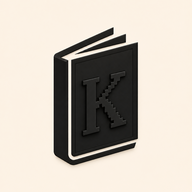
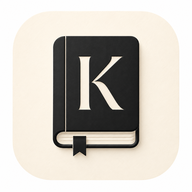
Add files via upload

diff --git a/index.html b/index.html
@@ -3,15 +3,15 @@
 <head>
   <meta charset="UTF-8" />
   <meta name="viewport" content="width=device-width, initial-scale=1.0, viewport-fit=cover" />
-  <meta name="theme-color" content="#fbfaf6" />
-  <link rel="manifest" href="./manifest.json?v=42" />
+  <meta name="theme-color" content="#F6F1E8" />
+  <link rel="manifest" href="./manifest.json?v=43" />
   <link rel="apple-touch-icon" href="./icons/icon-192.png" />
-  <title>Мои книги 4.2</title>
+  <title>Мои книги 4.3</title>
 
   <style>
     @font-face {
       font-family: 'uvKits';
-      src: url('./fonts/uvkits.ttf?v=42') format('truetype');
+      src: url('./fonts/uvkits.ttf?v=43') format('truetype');
       font-weight: 300 900;
       font-style: normal;
       font-display: swap;
@@ -19,7 +19,7 @@
 
     @font-face {
       font-family: 'KONSTRUKT';
-      src: url('./fonts/KONSTRUKT-Regular.otf?v=42') format('opentype');
+      src: url('./fonts/KONSTRUKT-Regular.otf?v=43') format('opentype');
       font-weight: 400;
       font-style: normal;
       font-display: swap;
@@ -1324,6 +1324,120 @@
       border-radius: 11px;
     }
 
+
+    /* v4.3 brand assets refinement */
+    .brand-mark {
+      width: 34px;
+      height: 44px;
+      background: transparent !important;
+      border-radius: 0 !important;
+      box-shadow: none !important;
+      overflow: visible;
+    }
+
+    .brand-mark::before,
+    .brand-mark::after {
+      display: none !important;
+      content: none !important;
+    }
+
+    .brand-mark img {
+      width: 100%;
+      height: 100%;
+      display: block;
+      object-fit: contain;
+    }
+
+    .cover.placeholder {
+      display: flex;
+      align-items: center;
+      justify-content: center;
+      background: linear-gradient(180deg, #FCF8F0 0%, #F2E9DA 100%);
+      border: 1px solid rgba(205, 186, 154, .6);
+      color: transparent;
+      font-size: 0;
+    }
+
+    .cover.placeholder img {
+      width: 62%;
+      height: 62%;
+      object-fit: contain;
+      display: block;
+    }
+
+    .app-splash {
+      position: fixed;
+      inset: 0;
+      z-index: 1200;
+      display: flex;
+      align-items: center;
+      justify-content: center;
+      background: radial-gradient(circle at 50% 20%, rgba(205,186,154,.18), transparent 35%), #F6F1E8;
+      transition: opacity .35s ease, visibility .35s ease;
+    }
+
+    .app-splash-inner {
+      width: min(320px, calc(100vw - 48px));
+      display: flex;
+      flex-direction: column;
+      align-items: center;
+      gap: 10px;
+      text-align: center;
+    }
+
+    .app-splash-logo {
+      width: 118px;
+      height: 148px;
+      object-fit: contain;
+      filter: drop-shadow(0 10px 20px rgba(23,23,23,.10));
+    }
+
+    .app-splash-title {
+      font-family: Georgia, "Times New Roman", serif;
+      font-size: 34px;
+      line-height: 1;
+      color: #171717;
+      letter-spacing: .01em;
+      margin-top: 4px;
+    }
+
+    .app-splash-sub {
+      font-family: var(--font-main);
+      font-size: 11px;
+      letter-spacing: .22em;
+      text-transform: uppercase;
+      color: #A99677;
+    }
+
+    .app-splash-line {
+      width: 148px;
+      height: 2px;
+      background: rgba(205,186,154,.55);
+      border-radius: 999px;
+      overflow: hidden;
+      margin-top: 12px;
+    }
+
+    .app-splash-line span {
+      display: block;
+      width: 42%;
+      height: 100%;
+      background: #171717;
+      border-radius: 999px;
+      animation: splashMove 1.25s ease-in-out infinite alternate;
+    }
+
+    @keyframes splashMove {
+      from { transform: translateX(0); }
+      to { transform: translateX(205%); }
+    }
+
+    body.app-loaded .app-splash {
+      opacity: 0;
+      visibility: hidden;
+      pointer-events: none;
+    }
+
     @media (max-width: 420px) {
       body {
         padding: 12px;
@@ -1358,17 +1472,25 @@
   </style>
 </head>
 
-<body>
+<body class="app-loading">
+  <div id="appSplash" class="app-splash" aria-hidden="true">
+    <div class="app-splash-inner">
+      <img src="./icons/logo-main.svg?v=43" alt="Мои книги" class="app-splash-logo" />
+      <div class="app-splash-title">Мои книги</div>
+      <div class="app-splash-sub">личная библиотека всегда с вами</div>
+      <div class="app-splash-line"><span></span></div>
+    </div>
+  </div>
   <main class="app">
     <header class="app-header">
       <div class="brand">
-        <div class="brand-mark"><span>К</span></div>
+        <div class="brand-mark"><img src="./icons/logo-app.svg?v=43" alt="Мои книги" /></div>
         <div>
           <p class="brand-title">Мои книги</p>
-          <p class="brand-subtitle">EPUB-читалка · 4.2</p>
+          <p class="brand-subtitle">EPUB-читалка · 4.3</p>
         </div>
       </div>
-      <span class="version-pill">v4.2</span>
+      <span class="version-pill">v4.3</span>
       <input class="hidden-input" id="epubInput" type="file" accept=".epub,application/epub+zip" />
     </header>
 
@@ -1455,7 +1577,7 @@
       <section class="settings-card">
         <div class="settings-item">
           <strong>Версия приложения</strong>
-          <span id="settingsVersion">4.2</span>
+          <span id="settingsVersion">4.3</span>
         </div>
 
         <div class="settings-item">
@@ -1476,7 +1598,7 @@
 
         <div class="settings-item">
           <strong>Service Worker</strong>
-          <span>my-books-epub-reader-v42</span>
+          <span>my-books-epub-reader-v43</span>
         </div>
 
         <div class="settings-item">
@@ -1492,7 +1614,7 @@
 
         <div class="settings-item">
           <strong>Подсказка для теста</strong>
-          <span>Если после обновления видишь старую версию: удалить PWA, очистить данные сайта и открыть index.html?v=42.</span>
+          <span>Если после обновления видишь старую версию: удалить PWA, очистить данные сайта и открыть index.html?v=43.</span>
         </div>
 
         <button class="danger-btn" id="clearDataBtn">Очистить локальные данные</button>
@@ -1510,13 +1632,13 @@
   <div class="toast" id="toast">Сохранено</div>
 
   <script>
-    const APP_VERSION = '4.2';
-    const BUILD_DATE = '2026-05-19 07:54 UTC';
+    const APP_VERSION = '4.3';
+    const BUILD_DATE = '2026-05-19 UTC';
     const DB_NAME = 'my-books-epub-reader-db-v40';
     const DB_VERSION = 1;
     const BOOKS_STORE = 'books';
     const UI_STORAGE_KEY = 'my-books-epub-ui-v40';
-    const SW_CACHE_NAME = 'my-books-epub-reader-v42';
+    const SW_CACHE_NAME = 'my-books-epub-reader-v43';
 
     const JSZIP_SOURCES = [
       './libs/jszip.min.js',
@@ -1575,9 +1697,11 @@
       try {
         await loadZipLibrary();
         await init();
+        hideSplash();
       } catch (error) {
         console.error(error);
         showToast('EPUB-модуль не загрузился');
+        hideSplash();
       }
     });
 
@@ -1592,6 +1716,12 @@
       }
 
       throw new Error('JSZip unavailable');
+    }
+
+    function hideSplash() {
+      setTimeout(() => {
+        document.body.classList.add('app-loaded');
+      }, 280);
     }
 
     function loadScript(src) {
@@ -1673,7 +1803,7 @@
     function registerServiceWorker() {
       if ('serviceWorker' in navigator) {
         window.addEventListener('load', () => {
-          navigator.serviceWorker.register('./service-worker.js?v=42').catch(() => {});
+          navigator.serviceWorker.register('./service-worker.js?v=43').catch(() => {});
         });
       }
     }
@@ -2191,7 +2321,7 @@
         return `<div class="cover"><img src="${book.coverData}" alt="Обложка ${escapeHtml(book.title)}" /></div>`;
       }
 
-      return `<div class="cover">${escapeHtml(getCoverLetters(book.title))}</div>`;
+      return `<div class="cover placeholder"><img src="./icons/logo-app.svg?v=43" alt="Логотип Мои книги" /></div>`;
     }
 
     function attachBookActions(container) {

diff --git a/service-worker.js b/service-worker.js
@@ -1,9 +1,9 @@
-const CACHE_NAME = 'my-books-epub-reader-v42';
+const CACHE_NAME = 'my-books-epub-reader-v43';
 
 const APP_SHELL = [
   './',
-  './index.html?v=42',
-  './manifest.json?v=42',
+  './index.html?v=43',
+  './manifest.json?v=43',
   './icons/icon-192.png',
   './icons/icon-512.png'
 ];
@@ -45,7 +45,7 @@ self.addEventListener('fetch', event => {
         return response;
       }).catch(() => {
         if (event.request.mode === 'navigate') {
-          return caches.match('./index.html?v=42') || caches.match('./index.html');
+          return caches.match('./index.html?v=43') || caches.match('./index.html');
         }
 
         throw new Error('Network request failed');
